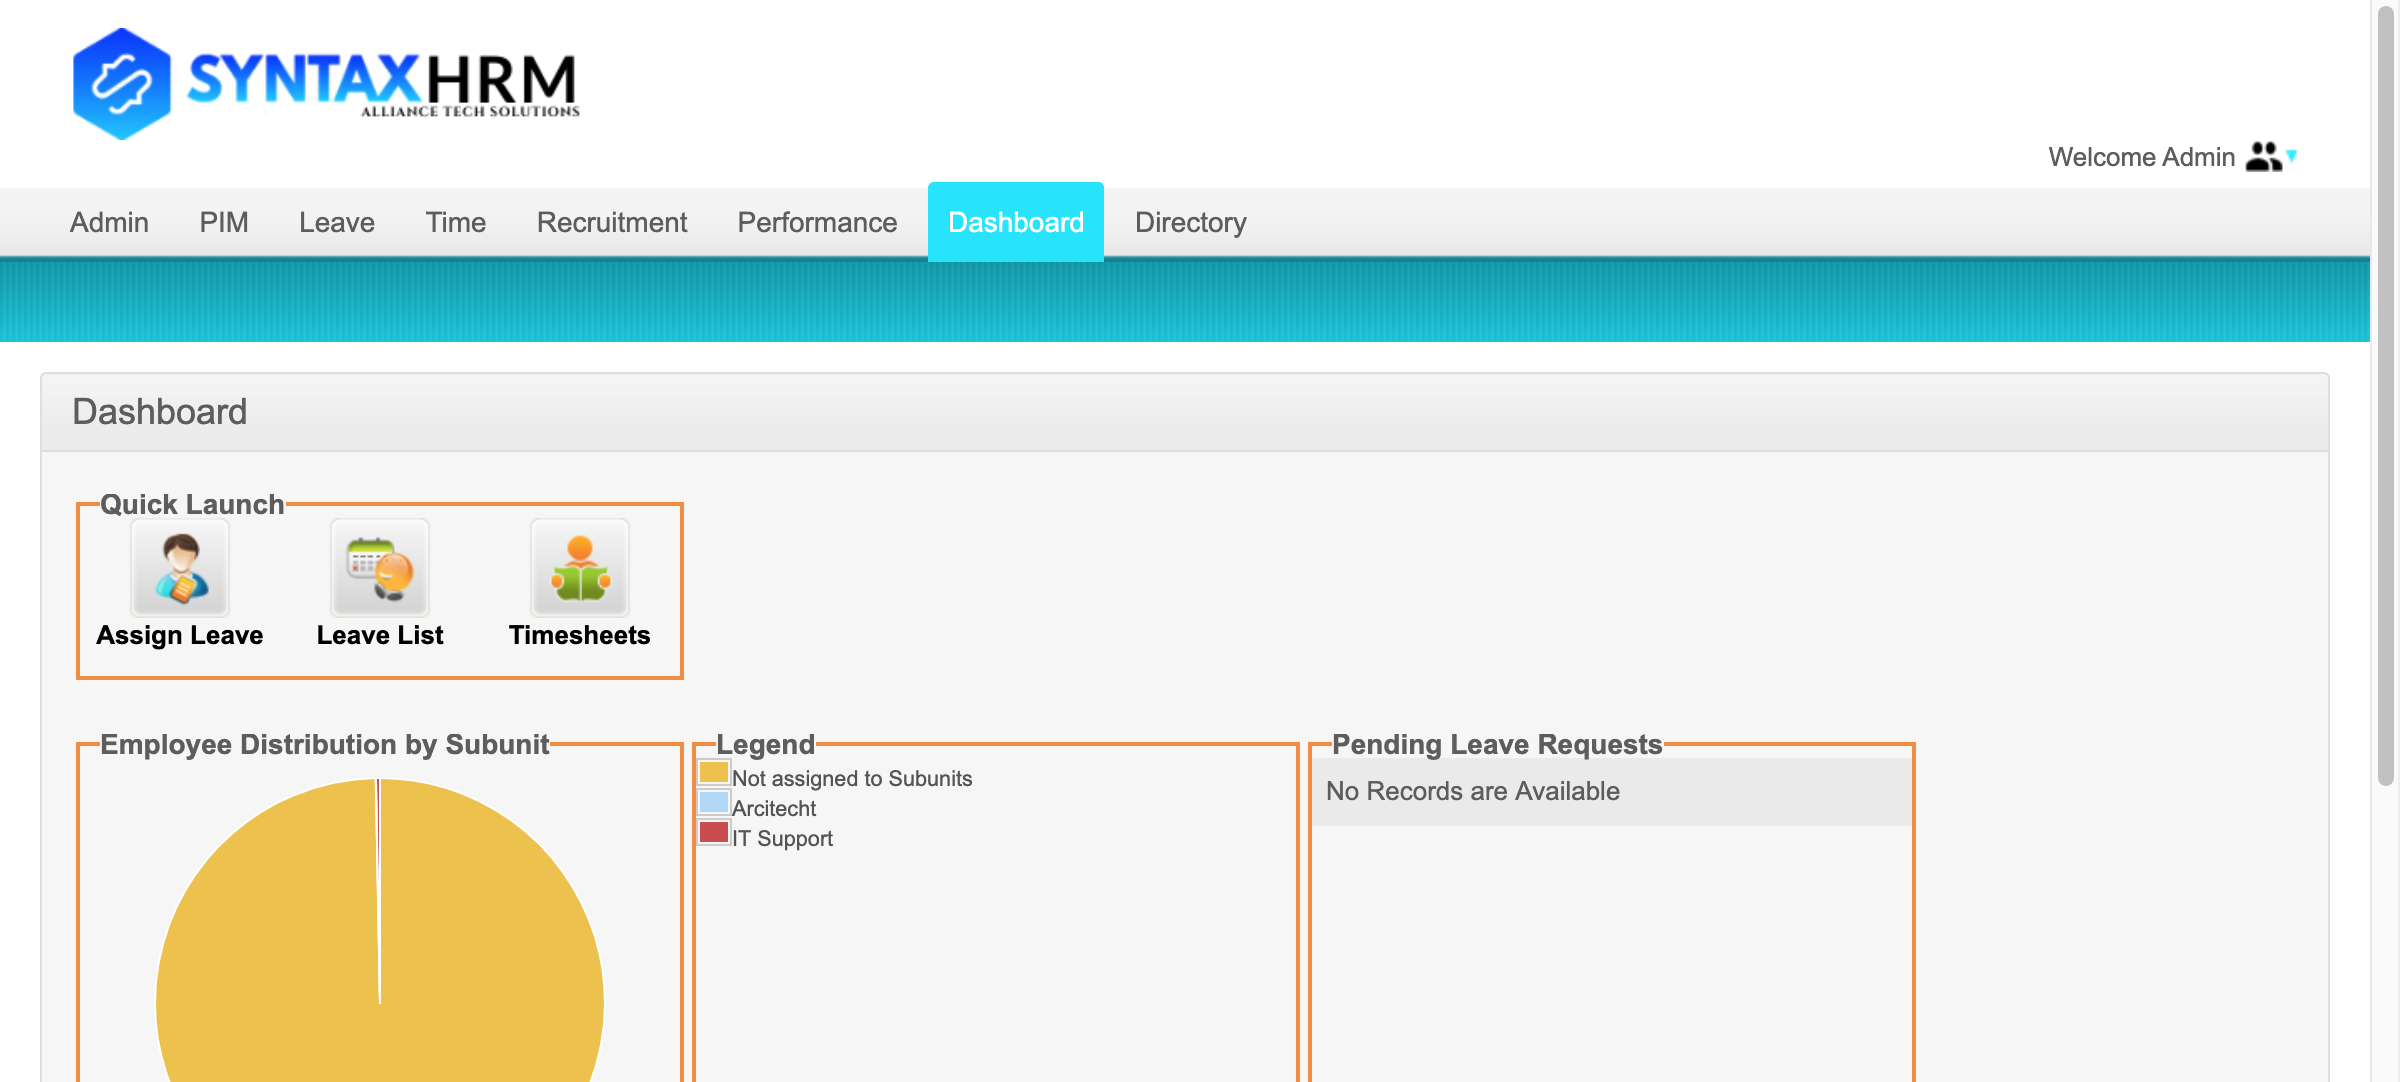
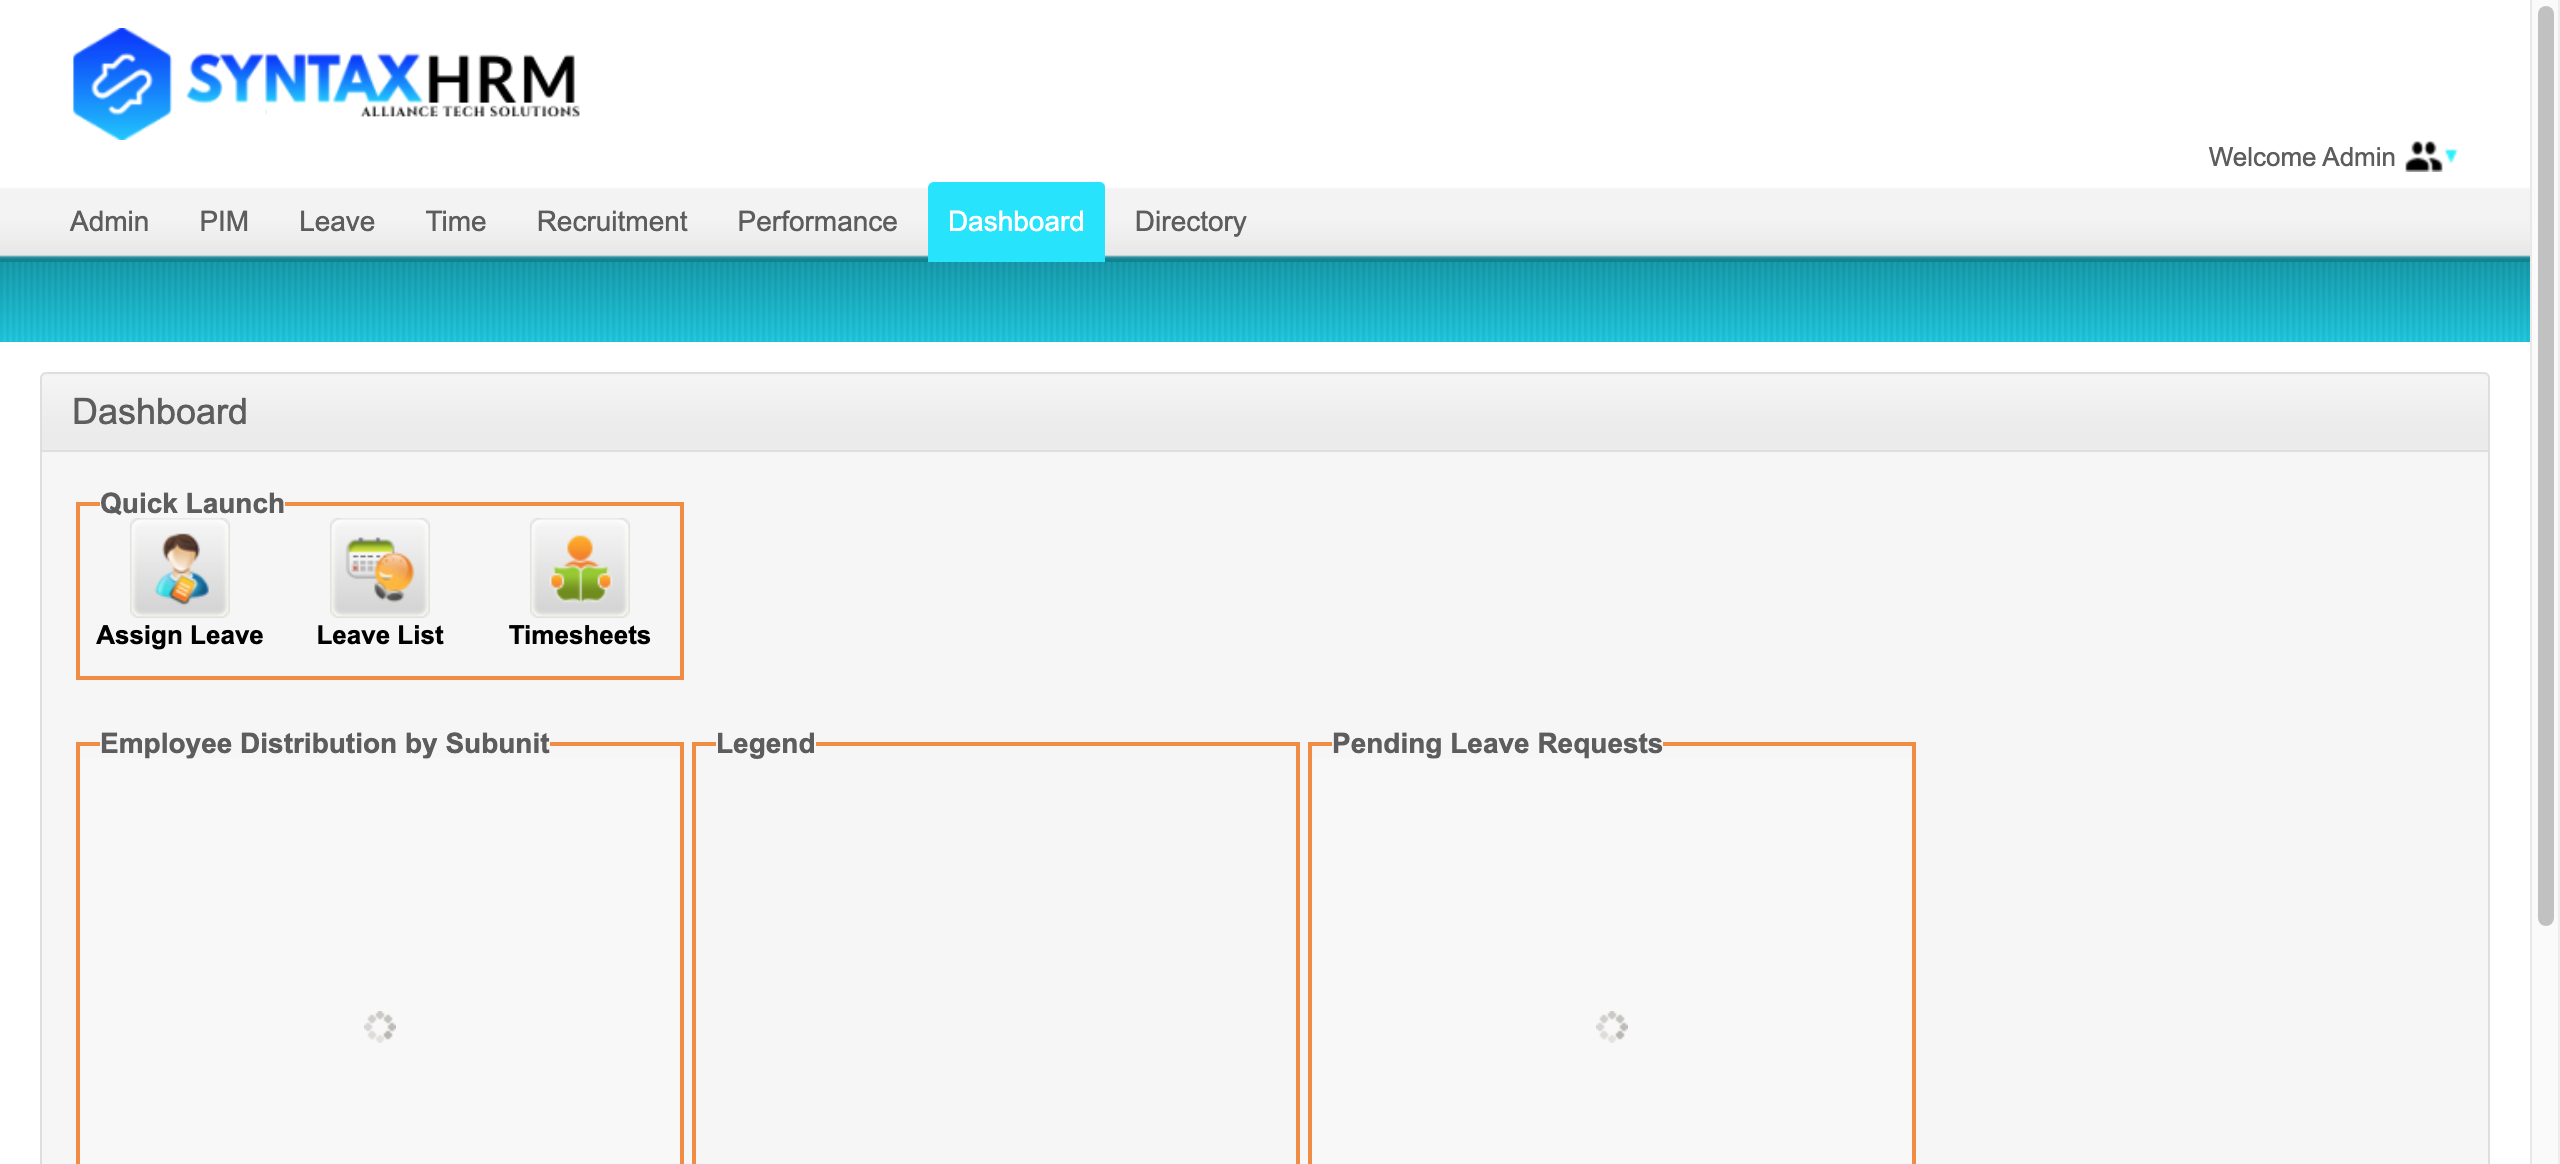
r

diff --git a/src/com/syntax/class11/fileUploadDemo.java b/src/com/syntax/class11/fileUploadDemo.java
@@ -9,19 +9,16 @@ public class fileUploadDemo {
 
 	public static void main(String[] args) {
 		System.setProperty("webdriver.chrome.driver", "drivers/chromedriver");
-		
-		WebDriver driver =new ChromeDriver();
+
+		WebDriver driver = new ChromeDriver();
 		driver.get("https://the-internet.herokuapp.com");
-		WebElement fileUpload =driver.findElement(By.linkText("File Upload"));
+		WebElement fileUpload = driver.findElement(By.linkText("File Upload"));
 		fileUpload.click();
-		WebElement chooseFile=driver.findElement(By.id("file-upload"));
-		chooseFile.sendKeys("/Users/Syntax/Desktop/SampleTestData.xlsx");
+		WebElement chooseFile = driver.findElement(By.id("file-upload"));
+		chooseFile.sendKeys("/Users/gulzadadzhusukeeva/Desktop/Hello.docx");
 		WebElement uploadButton = driver.findElement(By.id("file-submit"));
 		uploadButton.click();
-		
-		
-		
+
 	}
-	
 
 }

diff --git a/src/com/syntax/class11/jsExecutorDemo.java b/src/com/syntax/class11/jsExecutorDemo.java
@@ -10,7 +10,7 @@ import org.openqa.selenium.chrome.ChromeDriver;
 
 public class jsExecutorDemo {
 
-		public static String url = "http://18.232.148.34/humanresources/symfony/web/index.php/auth/login";
+		public static String url = "http://hrm.syntaxtechs.net/humanresources/symfony/web/index.php/auth/login";
 
 		public static void main(String[] args) throws InterruptedException {
 			System.setProperty("webdriver.chrome.driver", "drivers/chromedriver");
@@ -25,7 +25,7 @@ public class jsExecutorDemo {
 			password.sendKeys("Hum@nhrm123");
 
 			JavascriptExecutor js = (JavascriptExecutor)driver;
-			js.executeScript("arguments[0].style.backgroundColor='blue'", password);
+			js.executeScript("arguments[0].style.backgroundColor='red'", password);
 
 			Thread.sleep(2000);
 

diff --git a/src/com/syntax/test/LoginTestWithFindBy.java b/src/com/syntax/test/LoginTestWithFindBy.java
@@ -4,6 +4,7 @@ import java.io.File;
 import java.io.File;
 import java.io.IOException;
 
+import org.apache.commons.io.FileUtils;
 //import org.apache.commons.io.FileUtils;
 import org.openqa.selenium.OutputType;
 import org.openqa.selenium.TakesScreenshot;
@@ -25,11 +26,11 @@ public class LoginTestWithFindBy {
 
 		TakesScreenshot ts = (TakesScreenshot)BaseClass.driver;
 		File file = ts.getScreenshotAs(OutputType.FILE);
-		//try {
-		//	FileUtils.copyFile(file, new File("screenshots/HRMS/dashboard.png"));
-		//} //catch (IOException e) {
-			//e.printStackTrace();
-		//}
+		try {
+			FileUtils.copyFile(file, new File("screenshots/HRMS/dashboard.png"));
+		} catch (IOException e) {
+			e.printStackTrace();
+		}
 
 
 		String adminText = dashboard.welcomeAdmin.getText();

diff --git a/src/com/syntax/Utils/BaseClass.java b/src/com/syntax/Utils/BaseClass.java
@@ -19,9 +19,9 @@ public class BaseClass {
 	
 		System.setProperty("webdriver.chrome.driver", "drivers/chromedriver");
 		driver = new ChromeDriver();
-		driver.manage().window().fullscreen();
+		driver.manage().window().maximize();
 		driver.manage().timeouts().implicitlyWait(20, TimeUnit.SECONDS);
-		driver.get("http://166.62.36.207/humanresources/symfony/web/index.php/auth/login");
+		driver.get("http://hrm.syntaxtechs.net/humanresources/symfony/web/index.php/auth/login");
 		
 		return driver;
 	}

diff --git a/src/com/syntax/class11/advancedXpathDemo.java b/src/com/syntax/class11/advancedXpathDemo.java
@@ -15,7 +15,10 @@ public class advancedXpathDemo {
 	 * 
 	 * example:identifying the element by its parent
 	 *  //span[text() = '& Orders']/parent::a
-	 * 
+	 *  
+	 *  example:identifying the element by its ancestor
+	 *  //input[@id = 'calFromDate']/ancestor::form
+	 *  
 	 * 
 	 * example: identifying the element by its following siblings index
 	 *  //div[@id = 'divPassword']/following-sibling::div[2]

diff --git a/src/com/syntax/class11/jsExecutorDemo2.java b/src/com/syntax/class11/jsExecutorDemo2.java
@@ -22,7 +22,7 @@ public class jsExecutorDemo2 {
 			js.executeScript("window.scrollBy(0, -500)");
 			
 			Thread.sleep(2000);
-			WebElement backToTop = driver.findElement(By.xpath("//span[text() = 'Back to top']"));
+			WebElement backToTop = driver.findElement(By.xpath("//span[@class = 'navFooterBackToTopText']"));
 			js.executeScript("arguments[0].scrollIntoView(true);", backToTop);
 		}
 

diff --git a/src/com/syntax/test/LoginTest.java b/src/com/syntax/test/LoginTest.java
@@ -14,7 +14,7 @@ public class LoginTest {
 		loginPage.password.sendKeys("Hum@nhrm123");
 		loginPage.loginButton.click();
 		
-		BaseClass.tearDown();
+		BaseClass.tearDown();//snesti, razrushit
 
 	}
 
